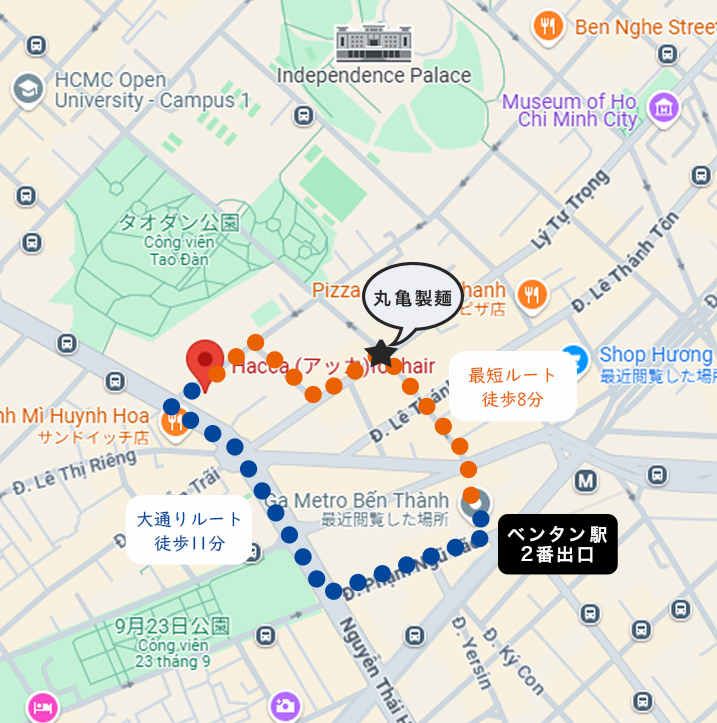
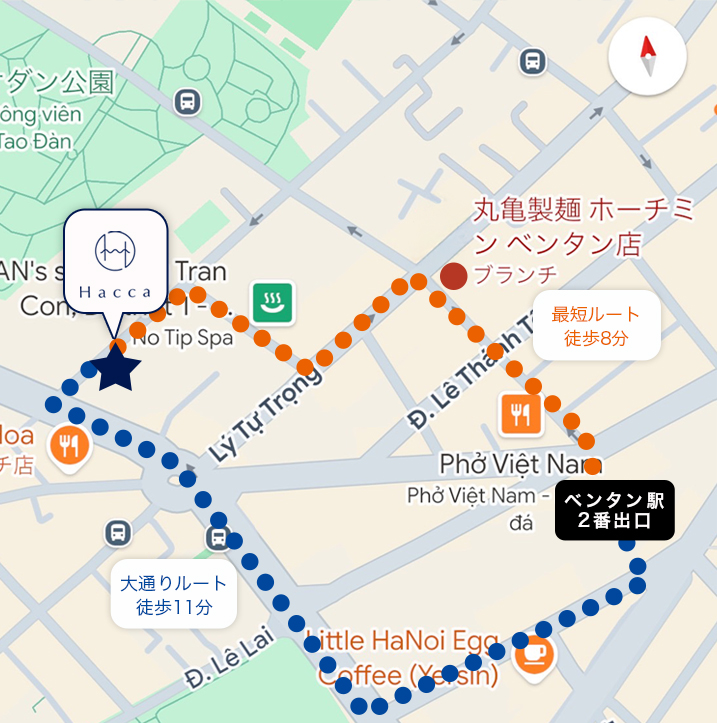
各種修正
メニュー部分修正
マップ画像修正

diff --git a/src/components/Hero.tsx b/src/components/Hero.tsx
@@ -1,50 +1,39 @@
 import React, { useState, useEffect } from 'react';
-import { useTranslation } from 'react-i18next';
-import { motion, AnimatePresence } from 'framer-motion';
+import { useTranslation, Trans } from 'react-i18next';
+import { motion } from 'framer-motion';
 
 export const Hero: React.FC = () => {
   const { t } = useTranslation();
   const [currentImageIndex, setCurrentImageIndex] = useState(0);
   const [imagesLoaded, setImagesLoaded] = useState(false);
 
-  const images = [
-    '/hero_1.jpg',
-    '/hero_2.jpg',
-    '/hero_3.jpg',
-  ];
+  const images = ['/hero_1.jpg', '/hero_2.jpg', '/hero_3.jpg'];
 
   useEffect(() => {
     const preloadImages = async () => {
       try {
-        const imagePromises = images.map((src) => {
-          return new Promise((resolve, reject) => {
+        const imagePromises = images.map((src) =>
+          new Promise((resolve, reject) => {
             const img = new Image();
             img.src = src;
             img.onload = resolve;
-            img.onerror = (error) => {
-              console.error(`Failed to load image: ${src}`, error);
-              reject(error);
-            };
-          });
-        });
-
+            img.onerror = reject;
+          })
+        );
         await Promise.all(imagePromises);
         setImagesLoaded(true);
       } catch (error) {
         console.error('Error preloading images:', error);
       }
     };
-
     preloadImages();
   }, []);
 
   useEffect(() => {
     if (!imagesLoaded) return;
-
     const timer = setInterval(() => {
       setCurrentImageIndex((prev) => (prev + 1) % images.length);
     }, 5000);
-
     return () => clearInterval(timer);
   }, [imagesLoaded]);
 
@@ -52,37 +41,26 @@ export const Hero: React.FC = () => {
     <section className="relative h-screen overflow-hidden bg-black">
       <div className="absolute inset-0">
         {imagesLoaded && (
-          <>
-            {/* Current Image */}
+          <>  {/* Cross-fade current and previous images */}
             <motion.div
               key={`current-${currentImageIndex}`}
               initial={{ opacity: 0 }}
               animate={{ opacity: 1 }}
-              transition={{ 
-                duration: 2,
-                ease: "easeInOut"
-              }}
+              transition={{ duration: 2, ease: 'easeInOut' }}
               className="absolute inset-0"
             >
               <div
                 className="absolute inset-0 bg-cover bg-center"
-                style={{
-                  backgroundImage: `url(${images[currentImageIndex]})`,
-                }}
+                style={{ backgroundImage: `url(${images[currentImageIndex]})` }}
               >
                 <div className="absolute inset-0 bg-gradient-to-b from-black/20 to-black/30" />
               </div>
             </motion.div>
-
-            {/* Previous Image (for cross-fade effect) */}
             <motion.div
               key={`prev-${currentImageIndex}`}
               initial={{ opacity: 1 }}
               animate={{ opacity: 0 }}
-              transition={{ 
-                duration: 2,
-                ease: "easeInOut"
-              }}
+              transition={{ duration: 2, ease: 'easeInOut' }}
               className="absolute inset-0"
             >
               <div
@@ -97,7 +75,7 @@ export const Hero: React.FC = () => {
           </>
         )}
       </div>
-      
+
       <div className="relative h-full flex items-center justify-center text-center px-4">
         <motion.div
           initial={{ opacity: 0, y: 20 }}
@@ -105,16 +83,19 @@ export const Hero: React.FC = () => {
           transition={{ duration: 0.8 }}
           className="text-white max-w-3xl"
         >
-          <motion.h1 
+          {/* Hero title now supports HTML breaks via Trans */}
+          <motion.h1
             className="font-noto-jp text-4xl md:text-5xl lg:text-6xl mb-6 leading-tight tracking-[.25em] font-extralight"
             initial={{ opacity: 0, y: 30 }}
             animate={{ opacity: 1, y: 0 }}
             transition={{ duration: 1, delay: 0.2 }}
           >
-            五感を満たし、<br className="hidden sm:block" />
-            あなたの美しさを<br className="hidden sm:block" />
-            目覚めさせるサロン
+            <Trans
+              i18nKey="hero.title"
+              components={[<br className="hidden sm:block" key="br" />]}
+            />
           </motion.h1>
+
           <motion.a
             href="https://line.me/R/ti/p/%40ktc3244q"
             target="_blank"

diff --git a/src/i18n/translations.ts b/src/i18n/translations.ts
@@ -2,7 +2,7 @@ export const resources = {
   jp: {
     translation: {
       hero: {
-        title: '五感を満たし、あなたの美しさを目覚めさせるサロン',
+        title: '五感を満たし、<0/>あなたの美しさを目覚めさせるサロン',
         cta: 'ご予約',
       },
       information: {
@@ -43,11 +43,7 @@ export const resources = {
         items: {
           cutTopStylist: {
             title: 'カット（トップスタイリスト）',
-            price: '700,000',
-          },
-          cutJrStylist: {
-            title: 'カット（ジュニアスタイリスト）',
-            price: '400,000',
+            price: '800,000',
           },
           bangs: {
             title: '前髪カット',
@@ -55,11 +51,11 @@ export const resources = {
           },
           student: {
             title: '学生カット',
-            price: '500,000',
+            price: '600,000',
           },
           kids: {
             title: 'キッズカット',
-            price: '400,000',
+            price: '500,000',
           },
           reset: {
             title: 'リセット',
@@ -278,11 +274,7 @@ export const resources = {
         items: {
           cutTopStylist: {
             title: 'Cắt (Top Stylist)',
-            price: '700,000',
-          },
-          cutJrStylist: {
-            title: 'Cắt (Jr Stylist)',
-            price: '400,000',
+            price: '800,000',
           },
           bangs: {
             title: 'Cắt mái',
@@ -290,11 +282,11 @@ export const resources = {
           },
           student: {
             title: 'Cắt cho học sinh',
-            price: '500,000',
+            price: '600,000',
           },
           kids: {
             title: 'Cắt cho trẻ em',
-            price: '400,000',
+            price: '500,000',
           },
           reset: {
             title: 'Reset',
@@ -513,23 +505,19 @@ export const resources = {
         items: {
           cutTopStylist: {
             title: 'Cut (Top Stylist)',
-            price: '700,000',
+            price: '800,000',
           },
-          cutJrStylist: {
-            title: 'Cut (Jr Stylist)',
-            price: '400,000',
-          },
-          bangs: {
+           bangs: {
             title: 'Bangs Cut',
             price: '100,000',
           },
           student: {
             title: 'Student Cut',
-            price: '500,000',
+            price: '600,000',
           },
           kids: {
             title: 'Kids Cut',
-            price: '400,000',
+            price: '500,000',
           },
           reset: {
             title: 'Reset',

diff --git a/src/components/Menu.tsx b/src/components/Menu.tsx
@@ -11,7 +11,7 @@ export const Menu: React.FC = () => {
     {
       id: 'cut',
       icon: <Scissors className="w-8 h-8" />,
-      items: ['cutTopStylist', 'cutJrStylist', 'bangs', 'student', 'kids', 'reset'],
+      items: ['cutTopStylist', 'bangs', 'student', 'kids', 'reset'],
     },
     {
       id: 'set',
